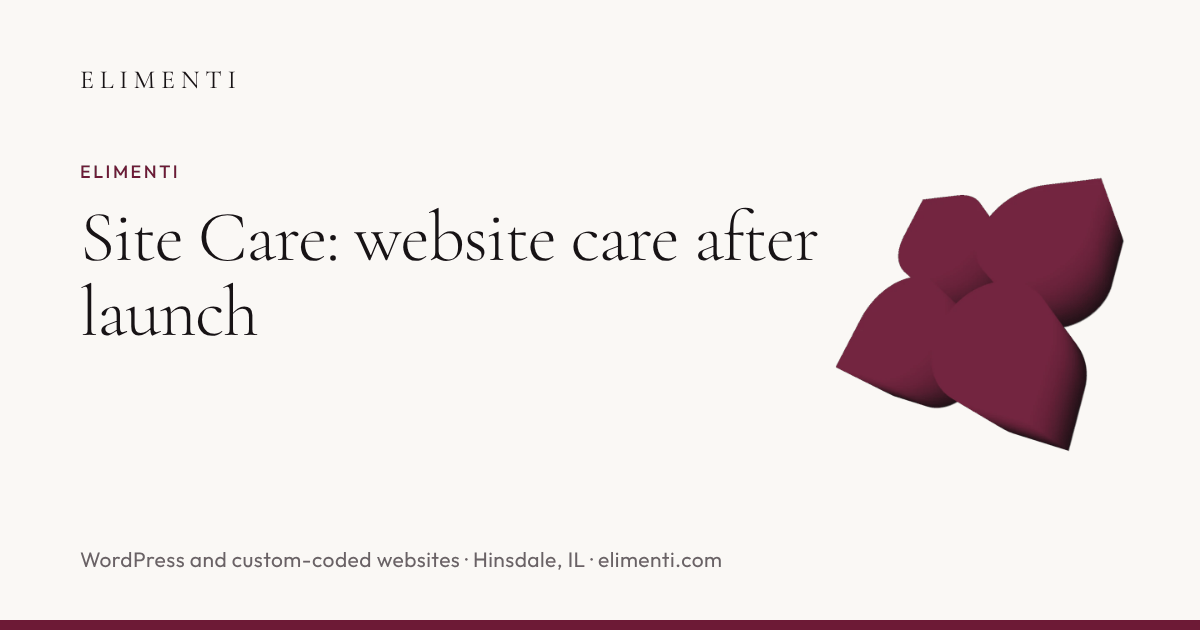
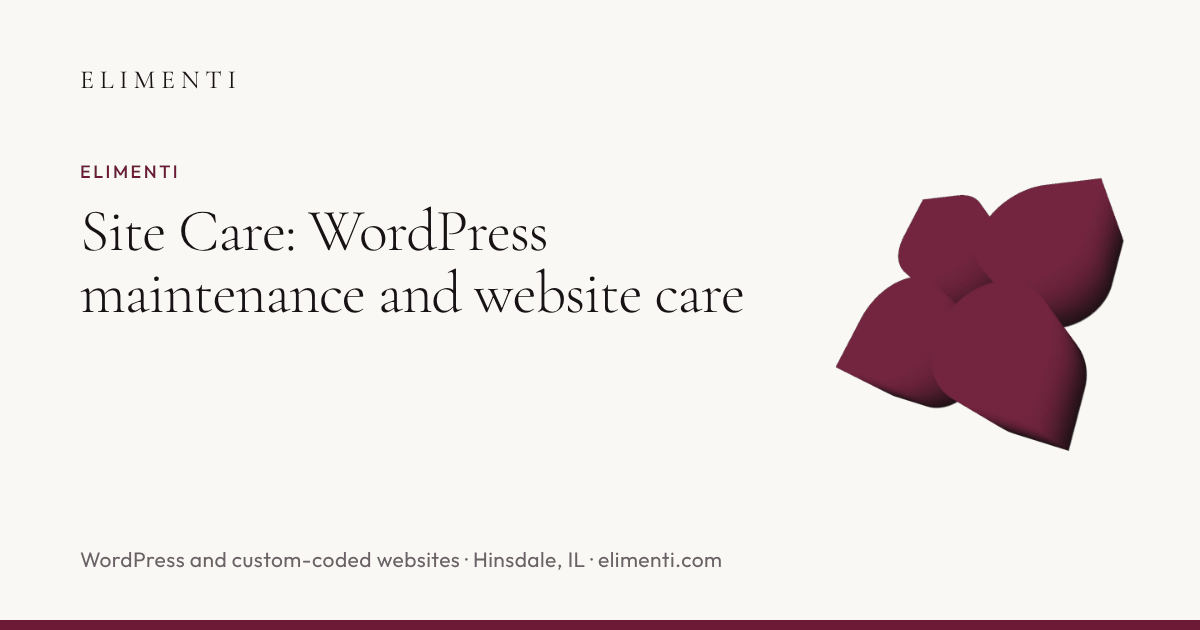
Retarget Site Care at WordPress maintenance searches, with DuPage County signals
/site-care/: title, description, H1, opening answer, Elementor and the ABN
(Lombard, DuPage County) example, two new FAQ items (what WordPress
maintenance includes; areas covered), service schema name and type, OG card.
Homepage Site Care card, FAQ answers, WordPress page and ABN case study now
link it with WordPress maintenance anchor text. llms.txt key fact updated.
Marker comment left on /site-care/ for the takeover guide link.

Claude-Session: https://claude.ai/code/session_01LcExrEbputsebkUeS5P95F

Changed region(s): [[0.0617, 0.3317, 0.6783, 0.5429]]

diff --git a/site-care/index.html b/site-care/index.html
@@ -3,25 +3,25 @@
 <head>
     <meta charset="UTF-8">
     <meta name="viewport" content="width=device-width, initial-scale=1">
-    <title>Website Care and Maintenance, Chicago Suburbs | Elimenti</title>
-    <meta name="description" content="Site Care keeps your website current: a monthly plan or hourly edits, five-business-day turnaround, with WordPress updates and backups on the monthly plan.">
+    <title>WordPress &amp; Website Maintenance, DuPage County | Elimenti</title>
+    <meta name="description" content="WordPress maintenance and website care for Hinsdale, DuPage County and the Chicago suburbs: monthly plan or hourly edits, five-business-day turnaround.">
     <link rel="canonical" href="https://elimenti.com/site-care/">
 
     <meta property="og:type" content="website">
     <meta property="og:site_name" content="Elimenti">
     <meta property="og:locale" content="en_US">
     <meta property="og:url" content="https://elimenti.com/site-care/">
-    <meta property="og:title" content="Website Care and Maintenance, Chicago Suburbs | Elimenti">
-    <meta property="og:description" content="Site Care keeps your website current: a monthly plan or hourly edits, five-business-day turnaround, with WordPress updates and backups on the monthly plan.">
+    <meta property="og:title" content="WordPress &amp; Website Maintenance, DuPage County | Elimenti">
+    <meta property="og:description" content="WordPress maintenance and website care for Hinsdale, DuPage County and the Chicago suburbs: monthly plan or hourly edits, five-business-day turnaround.">
     <meta property="og:image" content="https://elimenti.com/assets/img/og/site-care.png">
     <meta property="og:image:width" content="1200">
     <meta property="og:image:height" content="630">
-    <meta property="og:image:alt" content="Website Care and Maintenance, Chicago Suburbs. Elimenti, WordPress and custom-coded websites.">
+    <meta property="og:image:alt" content="WordPress &amp; Website Maintenance, DuPage County. Elimenti, WordPress and custom-coded websites.">
     <meta name="twitter:card" content="summary_large_image">
-    <meta name="twitter:title" content="Website Care and Maintenance, Chicago Suburbs | Elimenti">
-    <meta name="twitter:description" content="Site Care keeps your website current: a monthly plan or hourly edits, five-business-day turnaround, with WordPress updates and backups on the monthly plan.">
+    <meta name="twitter:title" content="WordPress &amp; Website Maintenance, DuPage County | Elimenti">
+    <meta name="twitter:description" content="WordPress maintenance and website care for Hinsdale, DuPage County and the Chicago suburbs: monthly plan or hourly edits, five-business-day turnaround.">
     <meta name="twitter:image" content="https://elimenti.com/assets/img/og/site-care.png">
-    <meta name="twitter:image:alt" content="Website Care and Maintenance, Chicago Suburbs. Elimenti, WordPress and custom-coded websites.">
+    <meta name="twitter:image:alt" content="WordPress &amp; Website Maintenance, DuPage County. Elimenti, WordPress and custom-coded websites.">
 
     <meta name="theme-color" content="#FAF8F5">
     <link rel="icon" type="image/png" sizes="192x192" href="/assets/img/favicon-192.png">
@@ -186,10 +186,10 @@
         {
           "@type": "Service",
           "@id": "https://elimenti.com/site-care/#service",
-          "name": "Site Care: website care and maintenance",
-          "serviceType": "Website maintenance",
+          "name": "Site Care: WordPress maintenance and website care",
+          "serviceType": "WordPress and website maintenance",
           "url": "https://elimenti.com/site-care/",
-          "description": "Updates and changes to a live website, turned around in five business days. Covers WordPress and custom-coded sites built by Elimenti and existing WordPress sites. On WordPress sites, the monthly plan also covers WordPress core, theme and plugin updates and backups.",
+          "description": "WordPress maintenance and website care: updates and changes to a live website, turned around in five business days. Covers WordPress and custom-coded sites built by Elimenti and existing WordPress sites built by other firms, including page-builder sites made with Elementor. On WordPress sites, the monthly plan also covers WordPress core, theme and plugin updates and backups.",
           "provider": {
             "@id": "https://elimenti.com/#business"
           },
@@ -251,6 +251,14 @@
           "mainEntity": [
             {
               "@type": "Question",
+              "name": "What does WordPress maintenance include?",
+              "acceptedAnswer": {
+                "@type": "Answer",
+                "text": "Keeping the software current and recoverable: WordPress itself, the theme and every plugin get their updates, and backups mean there's a copy to restore if an update goes wrong. On the Site Care monthly plan, that work is included and doesn't count toward the plan's four monthly updates. On hourly care, it's done at the hourly rate whenever you ask for it. Hosting, the domain and any premium plugin or theme licenses stay in your name and are paid to those providers directly."
+              }
+            },
+            {
+              "@type": "Question",
               "name": "Do I need the monthly plan?",
               "acceptedAnswer": {
                 "@type": "Answer",
@@ -262,7 +270,15 @@
               "name": "Can you take over a WordPress site someone else built?",
               "acceptedAnswer": {
                 "@type": "Answer",
-                "text": "Yes. We maintain existing WordPress sites built by other firms. We start by learning the theme, page builder and plugins and confirming there's a current backup, then we make changes without touching what already works. On the monthly plan, we also keep WordPress, the theme and the plugins updated and backed up. If maintenance would cost more than a rebuild, we'll tell you."
+                "text": "Yes. We maintain existing WordPress sites built by other firms, including sites made with a page builder like Elementor. We start by learning the theme, page builder and plugins and confirming there's a current backup, then we make changes without touching what already works. ABN Construction Group's site, which we care for, runs on two page builders, Elementor and Neuron. On the monthly plan, we also keep WordPress, the theme and the plugins updated and backed up. If maintenance would cost more than a rebuild, we'll tell you."
+              }
+            },
+            {
+              "@type": "Question",
+              "name": "Which areas does Site Care cover?",
+              "acceptedAnswer": {
+                "@type": "Answer",
+                "text": "Elimenti is based in Hinsdale, in DuPage County. We take on WordPress sites across DuPage County, from Oak Brook, Clarendon Hills and Elmhurst to Lombard, Glen Ellyn and Naperville, and across the rest of Chicago's western suburbs, including Western Springs and Burr Ridge. Requests come by email and every change is confirmed once it's live, so Site Care works the same way for a business anywhere in the US."
               }
             },
             {
@@ -321,8 +337,8 @@
 
     <main id="main">
         <section class="page-hero">
-            <h1>Site Care: website care after launch</h1>
-            <p class="lede">Site Care is Elimenti&#x27;s website care plan: edits, new pages, events, prices and photos, turned around in five business days, on a monthly plan or billed by the hour. On WordPress sites, the monthly plan also keeps WordPress, the theme and the plugins updated and backed up. It covers the WordPress and custom-coded sites we build and existing WordPress sites built by someone else, so you can keep a working site current without rebuilding it.</p>
+            <h1>Site Care: WordPress maintenance and website care</h1>
+            <p class="lede">Site Care is Elimenti&#x27;s WordPress maintenance and website care, for businesses in Hinsdale, across DuPage County and Chicago&#x27;s western suburbs, and anywhere in the US. Edits, new pages, events, prices and photos are turned around in five business days, on a monthly plan or billed by the hour. On WordPress sites, the monthly plan also keeps WordPress, the theme and the plugins updated and backed up. It covers the WordPress and custom-coded sites we build and existing WordPress sites built by someone else, including page-builder sites made with Elementor, so you can keep a working site current without rebuilding it.</p>
             <div class="actions">
                 <a href="/contact/" class="btn btn--primary">Ask about Site Care</a>
             </div>
@@ -353,7 +369,7 @@
                     <li><strong>Photos.</strong> New images sized and compressed so the site stays fast.</li>
                     <li><strong>Search basics.</strong> Titles, descriptions and structured data for every new page, the same standard as launch.</li>
                     <li><strong>Small layout changes.</strong> Moving, adding or retiring a section without redesigning the page.</li>
-                    <li><strong>WordPress updates and backups.</strong> On the monthly plan, WordPress core, theme and plugin updates, plus backups, so the site stays current and there&#x27;s a copy to restore if an update goes wrong. They don&#x27;t count toward your four monthly updates. On hourly care, they&#x27;re billed by the hour.</li>
+                    <li><strong>WordPress maintenance.</strong> On the monthly plan, WordPress core, theme and plugin updates, plus backups, so the site stays current and there&#x27;s a copy to restore if an update goes wrong. They don&#x27;t count toward your four monthly updates. On hourly care, they&#x27;re billed by the hour.</li>
                 </ul>
             </section>
 
@@ -366,10 +382,11 @@
 
             <section>
                 <h2>For existing WordPress sites</h2>
-                <p>Plenty of businesses have a WordPress site that works and just needs someone to keep it current. We take those on, built by any firm. Before changing anything, we learn how the theme, page builder and plugins fit together, and we make sure a current backup exists.</p>
-                <p>That&#x27;s how we work with <a class="text-link" href="/work/abn-construction-group/">ABN Construction Group</a>, a Lombard general contractor: ongoing care of its existing site, with an hour estimate before every task and a new Automotive section in progress. For <a class="text-link" href="/work/burdi-clothing/">Burdi Clothing</a> in Hinsdale, we make targeted edits to its existing site, such as event pages for its car shows.</p>
+                <p>Plenty of businesses have a WordPress site that works and just needs someone to keep it current. We take those on, built by any firm, including sites made with a page builder like Elementor. Before changing anything, we learn how the theme, page builder and plugins fit together, and we make sure a current backup exists.</p>
+                <p>That&#x27;s how we work with <a class="text-link" href="/work/abn-construction-group/">ABN Construction Group</a>, a general contractor in Lombard, in DuPage County. Its existing WordPress site runs on two page builders, Elementor and Neuron. We give an hour estimate before every task, and a new Automotive section is in progress. For <a class="text-link" href="/work/burdi-clothing/">Burdi Clothing</a> in Hinsdale, we make targeted edits to its existing site, such as event pages for its car shows.</p>
                 <p>If a site breaks every time it&#x27;s edited, we&#x27;ll tell you whether a rebuild would cost less than keeping it alive. <a class="text-link" href="/wordpress-websites/">About WordPress websites →</a></p>
                 <p>Locked out of a site a past designer built? Start with <a class="text-link" href="/guides/web-designer-disappeared/">what to do if your web designer disappears</a>. Wondering whether care or a rebuild makes more sense? See <a class="text-link" href="/guides/website-redesign-vs-refresh/">redesign or refresh</a>.</p>
+                <!-- link: taking-over guide -->
             </section>
 
             <section>
@@ -385,15 +402,23 @@
             </section>
 
             <section>
-                <h2>Questions about Site Care</h2>
+                <h2>Questions about WordPress maintenance and Site Care</h2>
                 <div class="faq-list">
+                    <div class="faq-item">
+                        <h3>What does WordPress maintenance include?</h3>
+                        <p>Keeping the software current and recoverable: WordPress itself, the theme and every plugin get their updates, and backups mean there&#x27;s a copy to restore if an update goes wrong. On the Site Care monthly plan, that work is included and doesn&#x27;t count toward the plan&#x27;s four monthly updates. On hourly care, it&#x27;s done at the hourly rate whenever you ask for it. Hosting, the domain and any premium plugin or theme licenses stay in your name and are paid to those providers directly.</p>
+                    </div>
                     <div class="faq-item">
                         <h3>Do I need the monthly plan?</h3>
                         <p>No. The monthly plan suits businesses whose site changes most months, and it covers up to four updates a month, each an hour or less. On a WordPress site, it also covers updates and backups, which is the main reason to choose it there. If you only need an occasional change, pay by the hour for the work you ask for, with an estimate first, including any WordPress updates you want done.</p>
                     </div>
                     <div class="faq-item">
                         <h3>Can you take over a WordPress site someone else built?</h3>
-                        <p>Yes. We maintain existing WordPress sites built by other firms. We start by learning the theme, page builder and plugins and confirming there&#x27;s a current backup, then we make changes without touching what already works. On the monthly plan, we also keep WordPress, the theme and the plugins updated and backed up. If maintenance would cost more than a rebuild, we&#x27;ll tell you.</p>
+                        <p>Yes. We maintain existing WordPress sites built by other firms, including sites made with a page builder like Elementor. We start by learning the theme, page builder and plugins and confirming there&#x27;s a current backup, then we make changes without touching what already works. ABN Construction Group&#x27;s site, which we care for, runs on two page builders, Elementor and Neuron. On the monthly plan, we also keep WordPress, the theme and the plugins updated and backed up. If maintenance would cost more than a rebuild, we&#x27;ll tell you.</p>
+                    </div>
+                    <div class="faq-item">
+                        <h3>Which areas does Site Care cover?</h3>
+                        <p>Elimenti is based in Hinsdale, in DuPage County. We take on WordPress sites across DuPage County, from Oak Brook, Clarendon Hills and Elmhurst to Lombard, Glen Ellyn and Naperville, and across the rest of Chicago&#x27;s western suburbs, including Western Springs and Burr Ridge. Requests come by email and every change is confirmed once it&#x27;s live, so Site Care works the same way for a business anywhere in the US.</p>
                     </div>
                     <div class="faq-item">
                         <h3>Does Site Care include hosting?</h3>

diff --git a/faq/index.html b/faq/index.html
@@ -240,7 +240,7 @@
               "name": "What does website maintenance include after launch?",
               "acceptedAnswer": {
                 "@type": "Answer",
-                "text": "Site Care comes two ways: a monthly plan, the one we recommend, or hourly billing for individual edits. The monthly plan covers up to four updates a month, each an hour or less. On WordPress sites, it also covers WordPress core, theme and plugin updates, plus backups, and those don't count toward the four. On hourly care, WordPress updates are billed by the hour like any other work. You get the rate in writing before any work starts. Turnaround is five business days from when we have what we need. Site Care covers sites we built and existing WordPress sites. Hosting, your domain and any premium plugin licenses are billed to you directly. More about Site Care ."
+                "text": "Site Care, our WordPress maintenance and website care, comes two ways: a monthly plan, the one we recommend, or hourly billing for individual edits. The monthly plan covers up to four updates a month, each an hour or less. On WordPress sites, it also covers WordPress core, theme and plugin updates, plus backups, and those don't count toward the four. On hourly care, WordPress updates are billed by the hour like any other work. You get the rate in writing before any work starts. Turnaround is five business days from when we have what we need. Site Care covers sites we built and existing WordPress sites, including ones built with Elementor. Hosting, your domain and any premium plugin licenses are billed to you directly. More about WordPress maintenance and Site Care ."
               }
             },
             {
@@ -336,7 +336,7 @@
               "name": "Can you take over or update my existing WordPress site?",
               "acceptedAnswer": {
                 "@type": "Answer",
-                "text": "Yes. Site Care covers existing WordPress sites as well as the sites we build, and on the monthly plan that includes core, theme and plugin updates and backups. We maintain ABN Construction Group's WordPress site and make targeted edits to Burdi Clothing's existing WordPress site. Before we touch anything, we make sure there's a current backup. If your site breaks every time it's edited, we'll tell you honestly whether a rebuild makes more sense than maintenance."
+                "text": "Yes. Site Care covers WordPress maintenance for existing sites as well as the sites we build, and on the monthly plan that includes core, theme and plugin updates and backups. We maintain ABN Construction Group's WordPress site, which is built with Elementor, and make targeted edits to Burdi Clothing's existing WordPress site. Before we touch anything, we make sure there's a current backup. If your site breaks every time it's edited, we'll tell you honestly whether a rebuild makes more sense than maintenance. How Site Care takes over a WordPress site ."
               }
             },
             {
@@ -427,7 +427,7 @@
                 </div>
                 <div class="faq-item">
                     <h2>What does website maintenance include after launch?</h2>
-                    <p>Site Care comes two ways: a monthly plan, the one we recommend, or hourly billing for individual edits. The monthly plan covers up to four updates a month, each an hour or less. On WordPress sites, it also covers WordPress core, theme and plugin updates, plus backups, and those don&#x27;t count toward the four. On hourly care, WordPress updates are billed by the hour like any other work. You get the rate in writing before any work starts. Turnaround is five business days from when we have what we need. Site Care covers sites we built and existing WordPress sites. Hosting, your domain and any premium plugin licenses are billed to you directly. <a class="text-link" href="/site-care/">More about Site Care</a>.</p>
+                    <p>Site Care, our WordPress maintenance and website care, comes two ways: a monthly plan, the one we recommend, or hourly billing for individual edits. The monthly plan covers up to four updates a month, each an hour or less. On WordPress sites, it also covers WordPress core, theme and plugin updates, plus backups, and those don&#x27;t count toward the four. On hourly care, WordPress updates are billed by the hour like any other work. You get the rate in writing before any work starts. Turnaround is five business days from when we have what we need. Site Care covers sites we built and existing WordPress sites, including ones built with Elementor. Hosting, your domain and any premium plugin licenses are billed to you directly. <a class="text-link" href="/site-care/">More about WordPress maintenance and Site Care</a>.</p>
                 </div>
                 <div class="faq-item">
                     <h2>Do I own my website when it&#x27;s done?</h2>
@@ -475,7 +475,7 @@
                 </div>
                 <div class="faq-item">
                     <h2>Can you take over or update my existing WordPress site?</h2>
-                    <p>Yes. Site Care covers existing WordPress sites as well as the sites we build, and on the monthly plan that includes core, theme and plugin updates and backups. We maintain ABN Construction Group&#x27;s WordPress site and make targeted edits to Burdi Clothing&#x27;s existing WordPress site. Before we touch anything, we make sure there&#x27;s a current backup. If your site breaks every time it&#x27;s edited, we&#x27;ll tell you honestly whether a rebuild makes more sense than maintenance.</p>
+                    <p>Yes. Site Care covers WordPress maintenance for existing sites as well as the sites we build, and on the monthly plan that includes core, theme and plugin updates and backups. We maintain ABN Construction Group&#x27;s WordPress site, which is built with Elementor, and make targeted edits to Burdi Clothing&#x27;s existing WordPress site. Before we touch anything, we make sure there&#x27;s a current backup. If your site breaks every time it&#x27;s edited, we&#x27;ll tell you honestly whether a rebuild makes more sense than maintenance. <a class="text-link" href="/site-care/">How Site Care takes over a WordPress site</a>.</p>
                 </div>
                 <div class="faq-item">
                     <h2>Do you offer photography for websites?</h2>

diff --git a/index.html b/index.html
@@ -319,7 +319,7 @@
                 </article>
                 <article class="service-card">
                     <h3>Site Care</h3>
-                    <p>Changes after launch, with a five-business-day turnaround. The monthly plan is the one we recommend, and on WordPress sites it also covers core, theme and plugin updates and backups. Individual edits are billed by the hour. We also care for existing WordPress sites. <a class="text-link" href="/site-care/">About Site Care →</a></p>
+                    <p>WordPress maintenance and changes after launch, with a five-business-day turnaround. The monthly plan is the one we recommend, and on WordPress sites it also covers core, theme and plugin updates and backups. Individual edits are billed by the hour. We also care for existing WordPress sites, including ones built with Elementor. <a class="text-link" href="/site-care/">WordPress maintenance and Site Care →</a></p>
                 </article>
                 <article class="service-card">
                     <h3>Visual identity and photography</h3>

diff --git a/wordpress-websites/index.html b/wordpress-websites/index.html
@@ -381,7 +381,7 @@
             <section>
                 <h2>Site Care: updates and backups</h2>
                 <p>WordPress, its theme and its plugins all release updates, and a site that skips them gets harder to keep safe and working. On the monthly plan, Site Care covers WordPress core, theme and plugin updates, plus backups, on top of up to four content updates a month, each an hour or less; the WordPress updates don&#x27;t count toward the four. On hourly care, edits and WordPress updates are billed by the hour. Turnaround is five business days.</p>
-                <p>Site Care is optional. If you leave it, the site keeps running, and you or another developer take on the updates.</p>
+                <p>Site Care is optional. If you leave it, the site keeps running, and you or another developer take on the updates. <a class="text-link" href="/site-care/">WordPress maintenance and Site Care →</a></p>
             </section>
 
             <section>

diff --git a/work/abn-construction-group/index.html b/work/abn-construction-group/index.html
@@ -320,7 +320,7 @@
             </section>
             <section>
                 <h2>Next step</h2>
-                <p>Keeping a WordPress site you already have? <a class="text-link" href="/site-care/">See Site Care →</a> Want a new one? <a class="text-link" href="/wordpress-websites/">See WordPress websites →</a> or <a class="text-link" href="/contact/">start a project →</a></p>
+                <p>Keeping a WordPress site you already have? <a class="text-link" href="/site-care/">See WordPress maintenance and Site Care →</a> Want a new one? <a class="text-link" href="/wordpress-websites/">See WordPress websites →</a> or <a class="text-link" href="/contact/">start a project →</a></p>
                 <p>Build custom homes? <a class="text-link" href="/custom-home-builder-websites/">See what a home builder website needs →</a></p>
             </section>
         </div>

diff --git a/seo/tools/build.py b/seo/tools/build.py
@@ -224,7 +224,7 @@ RESEARCH_SCHEMA = [
 IND = '/custom-websites/'
 
 PAGES = [
-    dict(path='/', file='index.html', lastmod=NEW,
+    dict(path='/', file='index.html', lastmod=CARE,
          title='High-End Web Design in the Chicago Suburbs | Elimenti',
          description='Websites designed, written and built for independent businesses in Hinsdale and Chicago\'s western suburbs, on WordPress you can edit or custom-coded.',
          crumbs=None,
@@ -238,7 +238,7 @@ PAGES = [
          crumbs=[('Custom websites', '/custom-websites/')],
          schema=[service('/custom-websites/', 'Custom website design and build',
                          'Websites designed for one business and built one of two ways: on WordPress, so the client can edit it, or custom-coded in HTML, CSS and JavaScript. Copywriting, a basic SEO setup and up to three rounds of revisions are included. The client owns the site after final payment.')]),
-    dict(path='/wordpress-websites/', file='wordpress-websites/index.html', lastmod=NEW,
+    dict(path='/wordpress-websites/', file='wordpress-websites/index.html', lastmod=CARE,
          title='WordPress Website Design for Chicago Businesses | Elimenti',
          description='Custom-designed WordPress websites for independent businesses in Chicago and the suburbs: your own login, a launch walkthrough, updates through Site Care.',
          crumbs=[('WordPress websites', '/wordpress-websites/')],
@@ -251,13 +251,15 @@ PAGES = [
          schema=[service('/website-redesign/', 'Website redesign',
                          'Redesign of an existing business website on the same domain: a review of the current site, new design, rewritten copy and a rebuild on WordPress or custom-coded, with permanent redirects from old page addresses. Copywriting and a basic SEO setup are included.',
                          audience='Independent businesses with an existing website')]),
-    dict(path='/site-care/', file='site-care/index.html', lastmod=NEW,
-         title='Website Care and Maintenance, Chicago Suburbs | Elimenti',
-         description='Site Care keeps your website current: a monthly plan or hourly edits, five-business-day turnaround, with WordPress updates and backups on the monthly plan.',
+    # Retitled 2026-11-25 for "WordPress maintenance" searches: ChatGPT left Elimenti out of a DuPage
+    # County WordPress maintenance answer and Bing's results for that search were off-topic (seo/baseline-2026-11-25.md).
+    dict(path='/site-care/', file='site-care/index.html', lastmod=CARE,
+         title='WordPress & Website Maintenance, DuPage County | Elimenti',
+         description='WordPress maintenance and website care for Hinsdale, DuPage County and the Chicago suburbs: monthly plan or hourly edits, five-business-day turnaround.',
          crumbs=[('Site Care', '/site-care/')],
-         schema=[service('/site-care/', 'Site Care: website care and maintenance',
-                         'Updates and changes to a live website, turned around in five business days. Covers WordPress and custom-coded sites built by Elimenti and existing WordPress sites. On WordPress sites, the monthly plan also covers WordPress core, theme and plugin updates and backups.',
-                         service_type='Website maintenance')]),
+         schema=[service('/site-care/', 'Site Care: WordPress maintenance and website care',
+                         'WordPress maintenance and website care: updates and changes to a live website, turned around in five business days. Covers WordPress and custom-coded sites built by Elimenti and existing WordPress sites built by other firms, including page-builder sites made with Elementor. On WordPress sites, the monthly plan also covers WordPress core, theme and plugin updates and backups.',
+                         service_type='WordPress and website maintenance')]),
     dict(path='/pricing/', file='pricing/index.html', lastmod=CHANGED, nav='pricing',
          title='How a Web Design Project Works | Elimenti',
          description='How an Elimenti website project works: what\'s included, what moves the price, the steps from first call to launch, timing, payment and ownership.',
@@ -520,7 +522,7 @@ PAGES = [
                             {'@type': 'ClothingStore', 'name': 'Burdi Clothing', 'legalName': 'Burdi European Boutique Inc.', 'url': 'https://burdiclothing.com/',
                              'address': {'@type': 'PostalAddress', 'addressLocality': 'Hinsdale', 'addressRegion': 'IL', 'addressCountry': 'US'}},
                             ['/assets/img/work/burdi-clothing-desktop-1200.webp', '/assets/img/work/burdi-clothing-phone.webp'])]),
-    dict(path='/work/abn-construction-group/', file='work/abn-construction-group/index.html', lastmod=TODAY, nav='work',
+    dict(path='/work/abn-construction-group/', file='work/abn-construction-group/index.html', lastmod=CARE, nav='work',
          title='ABN Construction Website Care, Lombard IL | Elimenti',
          description='Elimenti maintains and edits ABN Construction Group\'s existing WordPress site, including a new Automotive section, for the Lombard general contractor.',
          crumbs=[('Work', '/work/'), ('ABN Construction Group', '/work/abn-construction-group/')],
@@ -545,7 +547,7 @@ PAGES = [
                   'affiliation': {'@type': 'CollegeOrUniversity', 'name': 'University of Illinois Urbana-Champaign',
                                   'sameAs': 'https://en.wikipedia.org/wiki/University_of_Illinois_Urbana-Champaign'},
                   'knowsAbout': ['Web design', 'WordPress', 'Copywriting', 'Website performance']}]),
-    dict(path='/faq/', file='faq/index.html', lastmod=CHANGED, nav='faq',
+    dict(path='/faq/', file='faq/index.html', lastmod=CARE, nav='faq',
          title='Web Design FAQ: Cost, Timing, Ownership | Elimenti',
          description='What drives a website\'s cost, WordPress or custom-coded, who owns it and how updates work. Straight answers from Elimenti, a Hinsdale web design studio.',
          crumbs=[('FAQ', '/faq/')], schema=[]),

diff --git a/seo/tools/llms.py b/seo/tools/llms.py
@@ -70,7 +70,7 @@ def render():
         'Key facts:',
         '',
         '- Every project, on WordPress or custom-coded, is scoped individually. The exact price and timeline come in a written proposal before any work starts.',
-        '- Site Care: a monthly plan or hourly edits, with a five-business-day turnaround.',
+        '- Site Care: WordPress maintenance and website care, on a monthly plan or hourly edits, with a five-business-day turnaround. It covers sites Elimenti builds and existing WordPress sites built by others, including Elementor sites.',
         f"- Founder: {biz['founder']['name']}",
         f'- Contact: {build.PHONE_DISPLAY}, {build.EMAIL}, or {SITE}/contact/',
     ]
